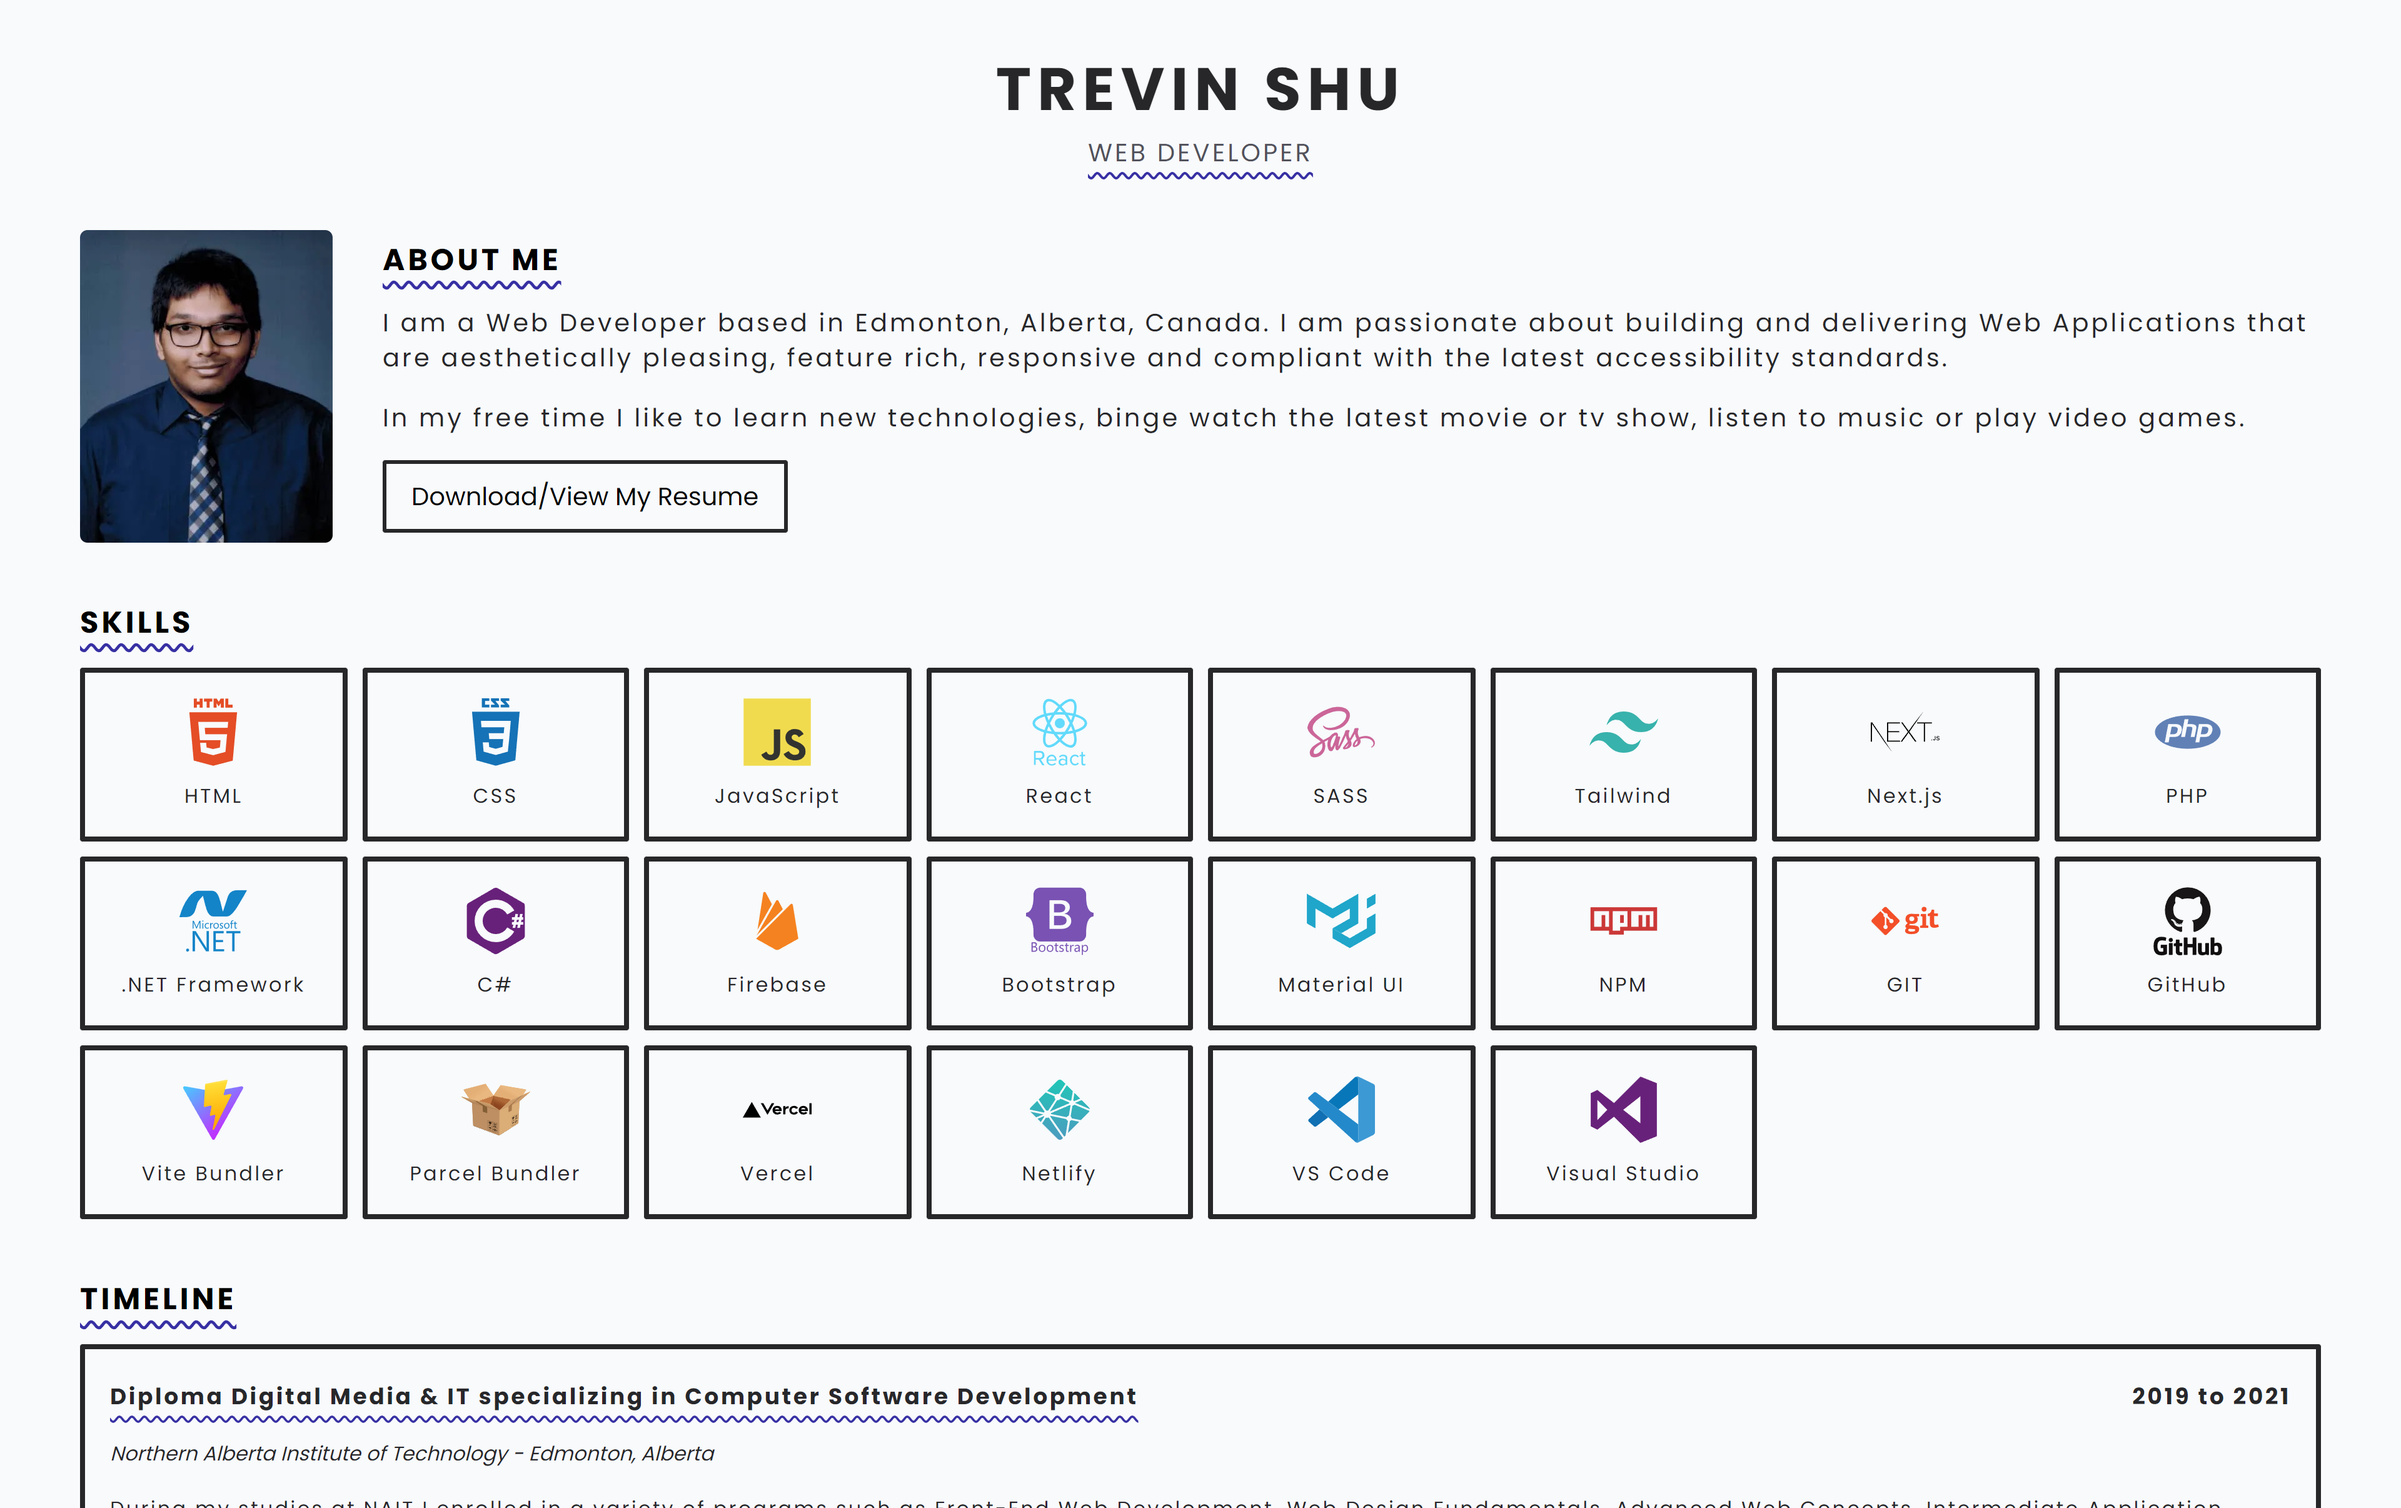
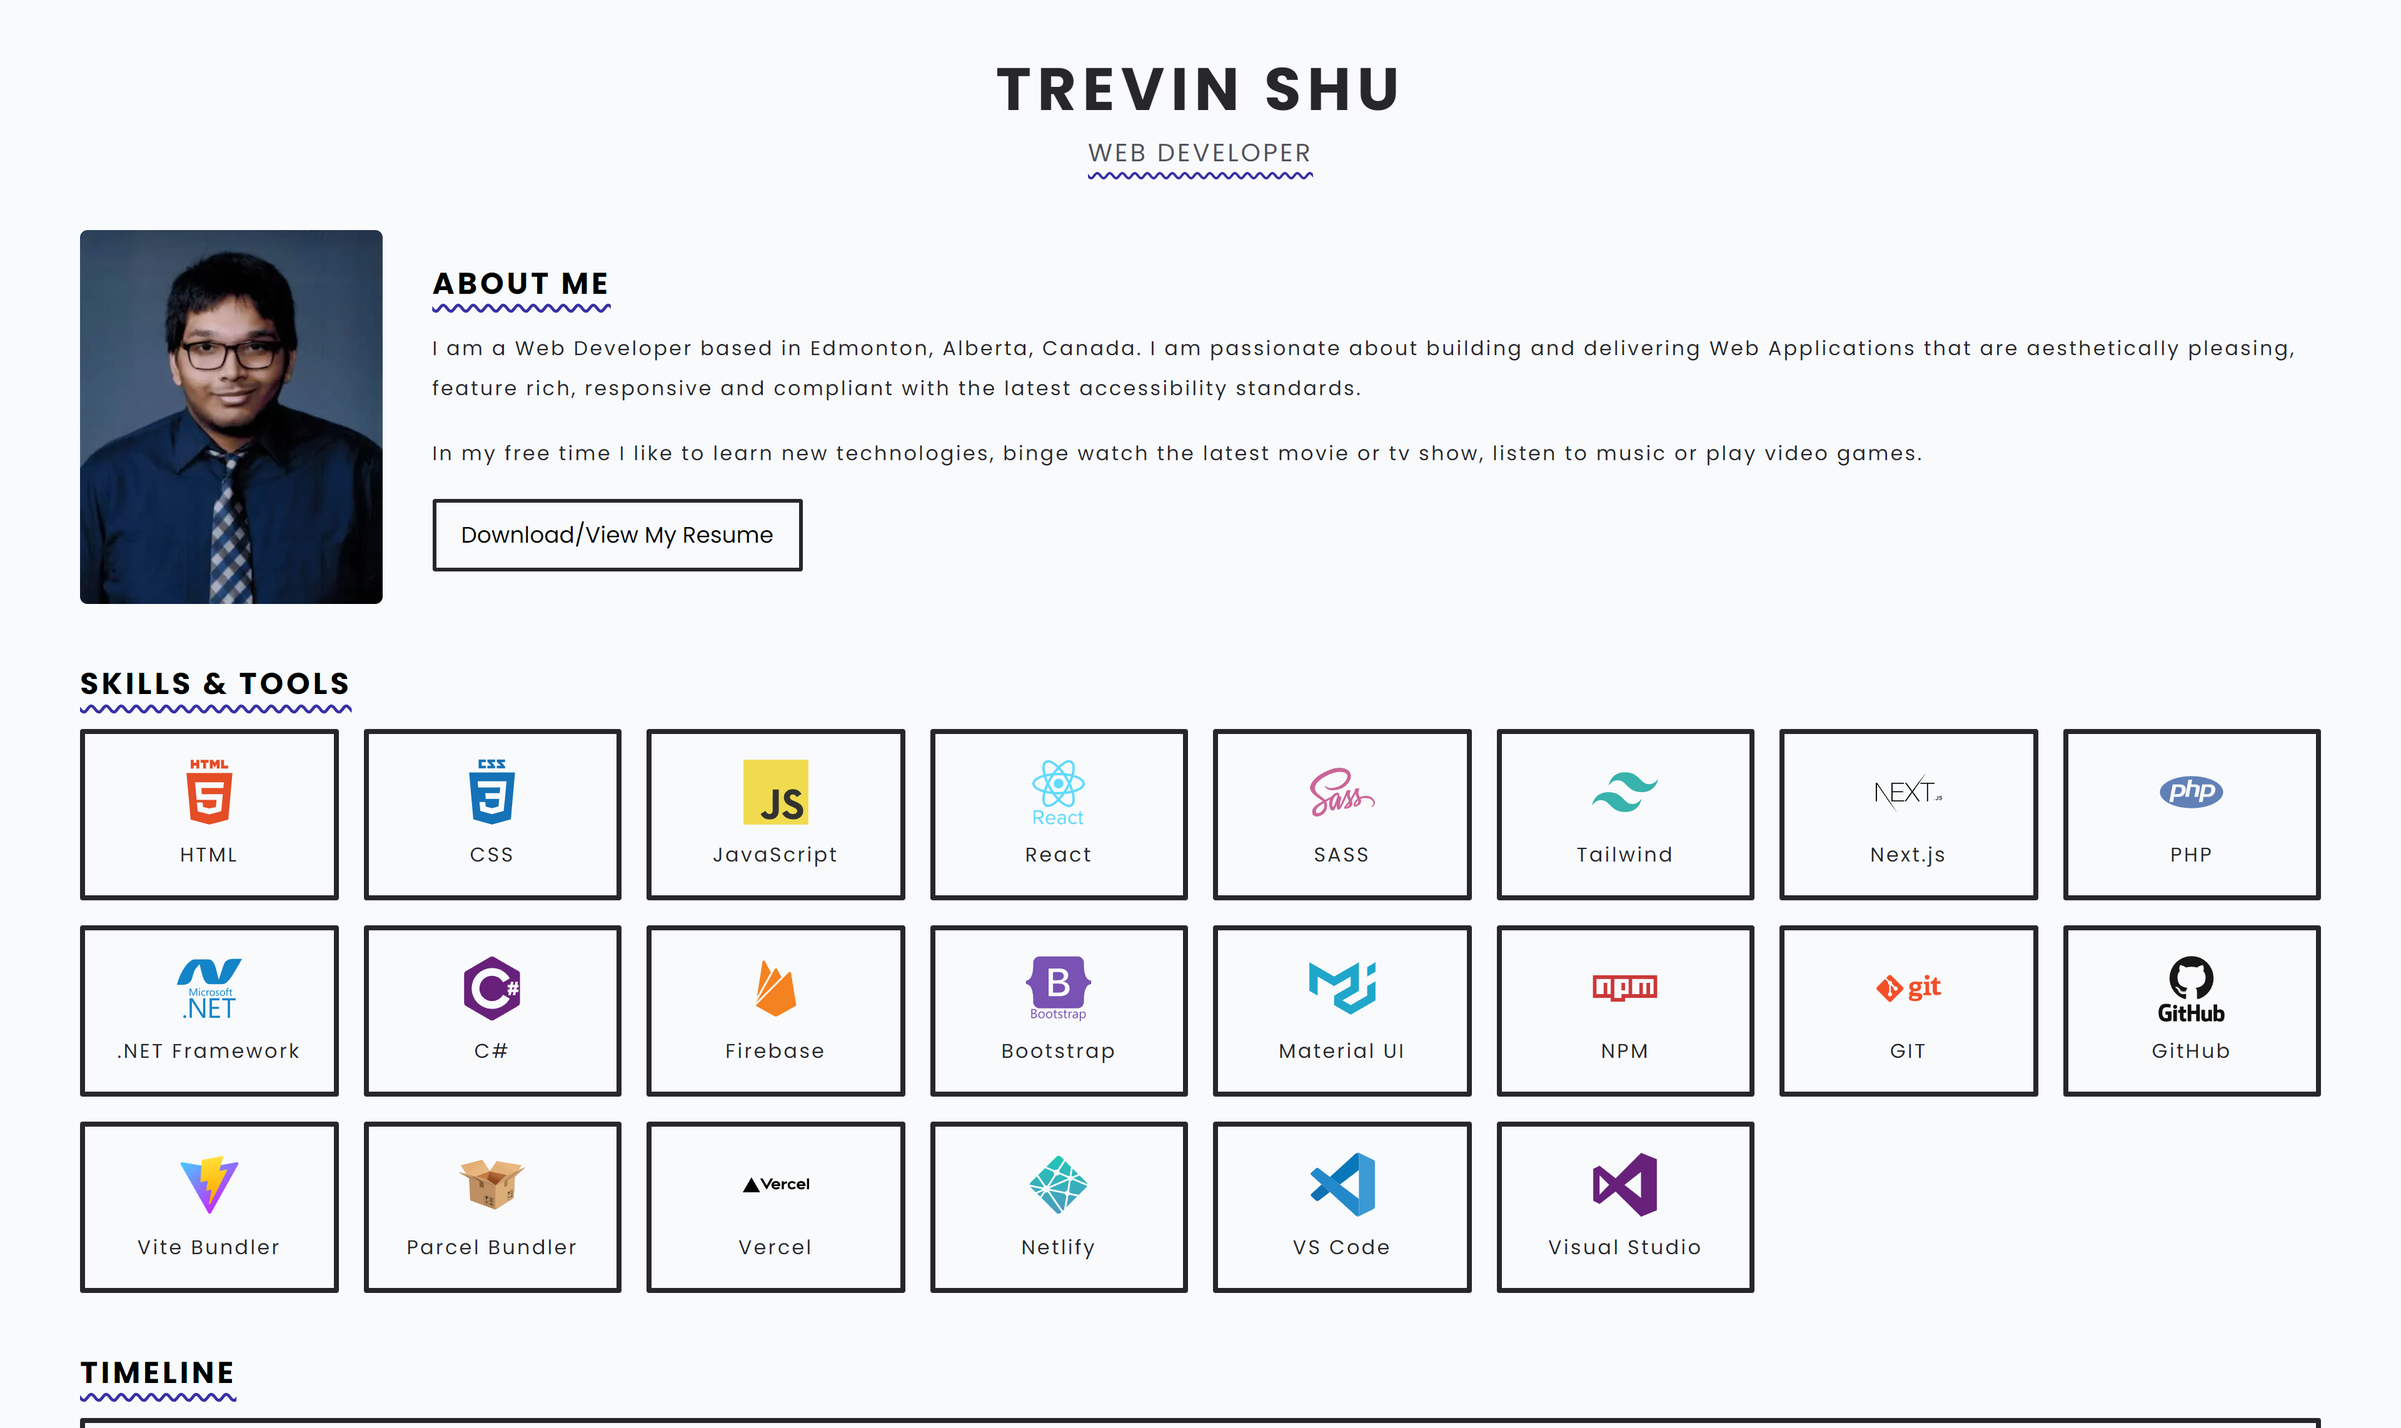
updated web portfolio screenshot. changed heading from skills to skills & tools

diff --git a/pages/index.js b/pages/index.js
@@ -3,7 +3,7 @@ import AboutMe from '../components/AboutMe';
 import Footer from '../components/Footer';
 import Header from '../components/Header';
 import Projects from '../components/Projects';
-import Skills from '../components/Skills';
+import SkillsTools from '../components/SkillsTools';
 import Timeline from '../components/Timeline';
 import { Poppins } from '@next/font/google';
 
@@ -26,7 +26,7 @@ export default function Home() {
       <main className={` bg-slate-50 flex flex-col min-h-screen p-5 gap-12 md:px-16 md:py-12 ${poppins.className}`}>
         <Header />
         <AboutMe />
-        <Skills />
+        <SkillsTools />
         <Timeline />
         <Projects />
         <Footer />

diff --git a/components/SkillsTools.jsx b/components/SkillsTools.jsx
@@ -3,10 +3,10 @@ import skills from '../public/data/skills.json';
 import Image from 'next/image';
 import Heading from './Heading';
 
-function Skills() {
+function SkillsTools() {
   return (
     <div className="flex flex-col gap-5">
-      <Heading>Skills</Heading>
+      <Heading>Skills & Tools</Heading>
       <div className="grid grid-cols-2 gap-5 sm:grid-cols-3 md:grid-cols-4 lg:grid-cols-5 xl:grid-cols-6 2xl:grid-cols-8">
         {skills.skills.map((skill) => {
           return (
@@ -21,4 +21,4 @@ function Skills() {
   );
 }
 
-export default Skills;
+export default SkillsTools;
